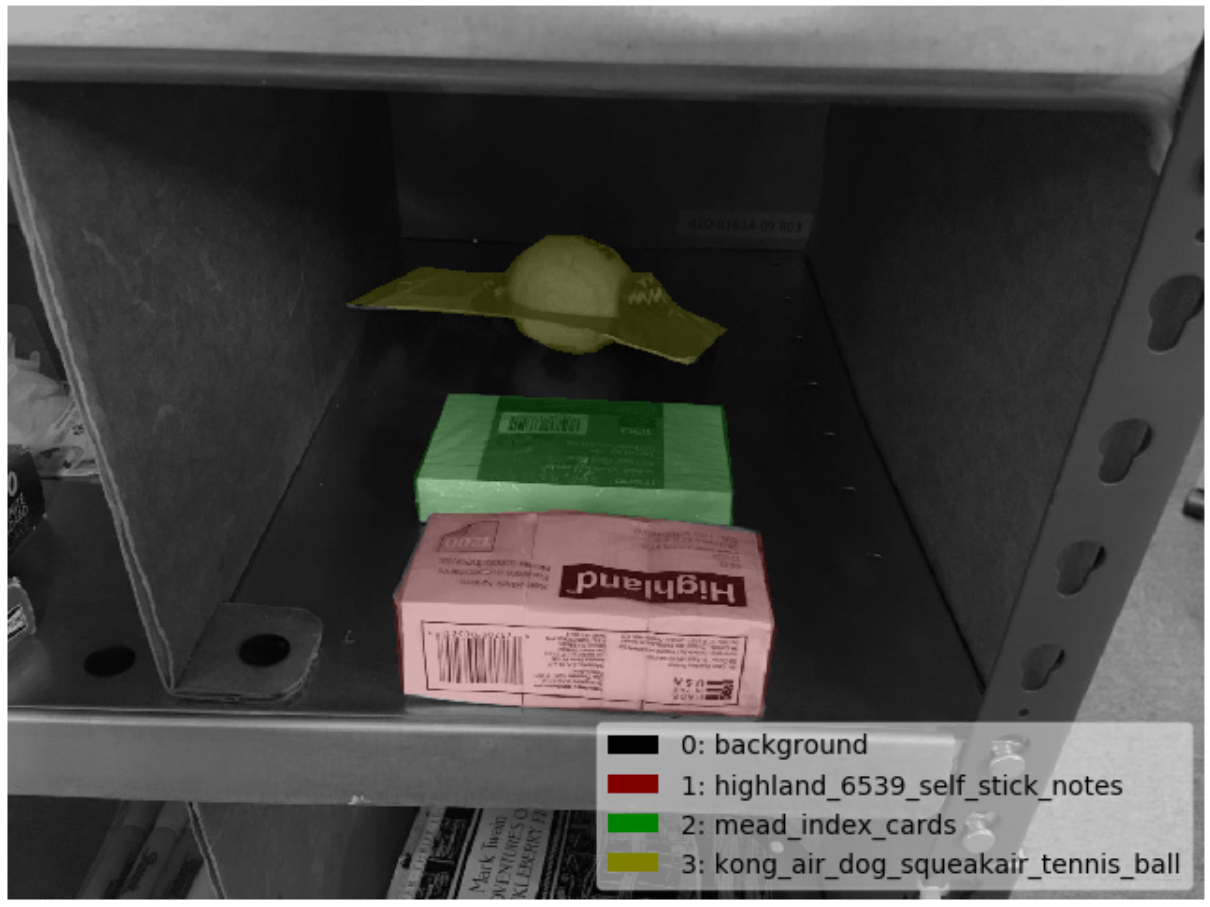
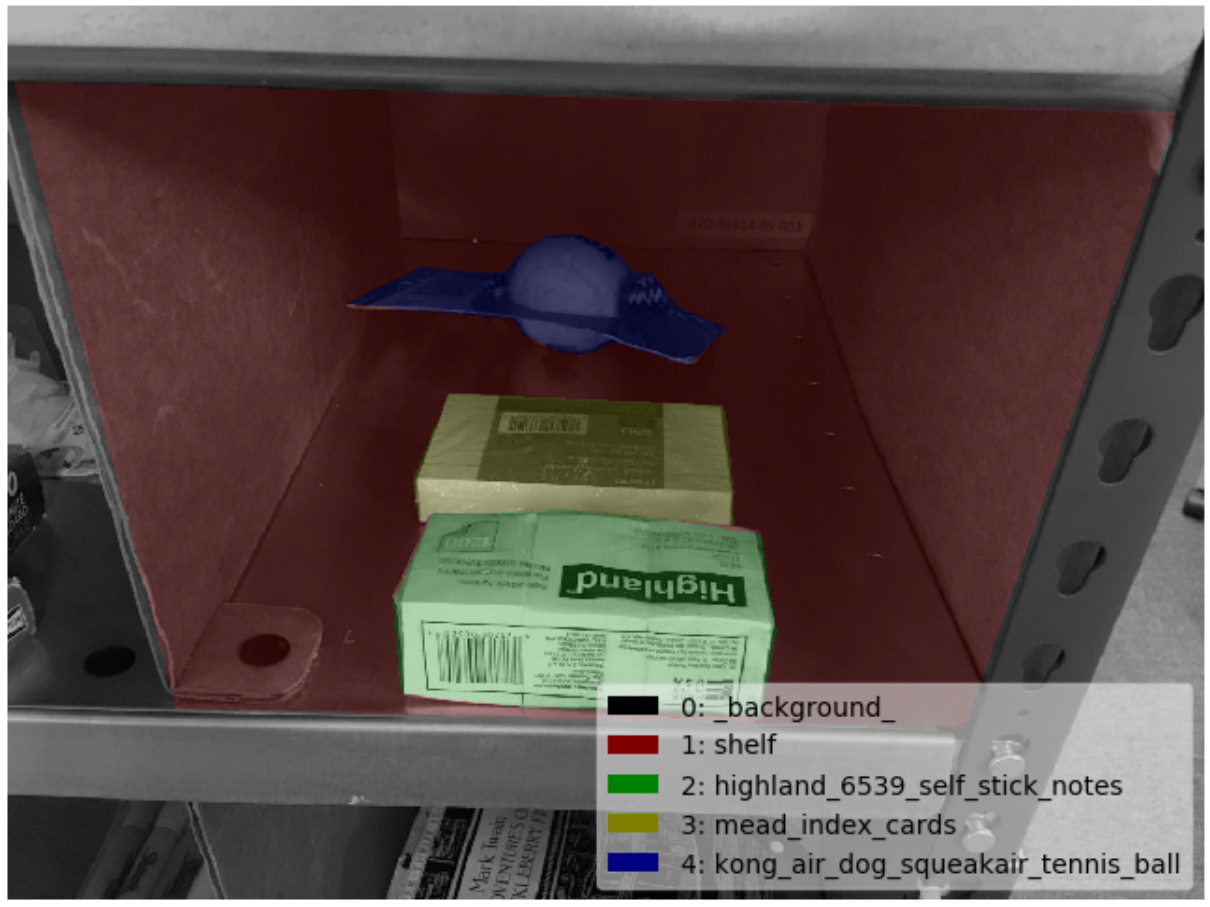
Fix utils.labelme_shapes_to_label
- Make 'background' label name have '0' label value

diff --git a/labelme/cli/json_to_dataset.py b/labelme/cli/json_to_dataset.py
@@ -32,10 +32,28 @@ def main():
 
     data = json.load(open(json_file))
 
-    img = utils.img_b64_to_array(data['imageData'])
-    lbl, lbl_names = utils.labelme_shapes_to_label(img.shape, data['shapes'])
+    img = utils.img_b64_to_arr(data['imageData'])
 
-    captions = ['%d: %s' % (l, name) for l, name in enumerate(lbl_names)]
+    label_name_to_value = {'_background_': 0}
+    for shape in data['shapes']:
+        label_name = shape['label']
+        if label_name in label_name_to_value:
+            label_value = label_name_to_value[label_name]
+        else:
+            label_value = len(label_name_to_value)
+            label_name_to_value[label_name] = label_value
+
+    # label_values must be dense
+    label_values, label_names = [], []
+    for ln, lv in sorted(label_name_to_value.items(), key=lambda x: x[1]):
+        label_values.append(lv)
+        label_names.append(ln)
+    assert label_values == list(range(len(label_values)))
+
+    lbl = utils.shapes_to_label(img.shape, data['shapes'], label_name_to_value)
+
+    captions = ['{}: {}'.format(lv, ln)
+                for ln, lv in label_name_to_value.items()]
     lbl_viz = utils.draw_label(lbl, img, captions)
 
     PIL.Image.fromarray(img).save(osp.join(out_dir, 'img.png'))
@@ -43,11 +61,11 @@ def main():
     PIL.Image.fromarray(lbl_viz).save(osp.join(out_dir, 'label_viz.png'))
 
     with open(osp.join(out_dir, 'label_names.txt'), 'w') as f:
-        for lbl_name in lbl_names:
+        for lbl_name in label_names:
             f.write(lbl_name + '\n')
 
     warnings.warn('info.yaml is being replaced by label_names.txt')
-    info = dict(label_names=lbl_names)
+    info = dict(label_names=label_names)
     with open(osp.join(out_dir, 'info.yaml'), 'w') as f:
         yaml.safe_dump(info, f, default_flow_style=False)
 

diff --git a/labelme/cli/draw_json.py b/labelme/cli/draw_json.py
@@ -16,10 +16,22 @@ def main():
 
     data = json.load(open(json_file))
 
-    img = utils.img_b64_to_array(data['imageData'])
-    lbl, lbl_names = utils.labelme_shapes_to_label(img.shape, data['shapes'])
+    img = utils.img_b64_to_arr(data['imageData'])
 
-    captions = ['%d: %s' % (l, name) for l, name in enumerate(lbl_names)]
+    label_name_to_value = {'_background_': 0}
+    for shape in data['shapes']:
+        label_name = shape['label']
+        if label_name in label_name_to_value:
+            label_value = label_name_to_value[label_name]
+        else:
+            label_value = len(label_name_to_value)
+            label_name_to_value[label_name] = label_value
+
+    lbl = utils.shapes_to_label(
+        img.shape, data['shapes'], label_name_to_value)
+
+    captions = ['{}: {}'.format(lv, ln)
+                for ln, lv in label_name_to_value.items()]
     lbl_viz = utils.draw_label(lbl, img, captions)
 
     plt.subplot(121)

diff --git a/labelme/utils.py b/labelme/utils.py
@@ -136,7 +136,7 @@ def shapes_to_label(img_shape, shapes, label_name_to_value, type='class'):
     cls = np.zeros(img_shape[:2], dtype=np.int32)
     if type == 'instance':
         ins = np.zeros(img_shape[:2], dtype=np.int32)
-        instance_names = ['__background__']
+        instance_names = ['_background_']
     for shape in shapes:
         polygons = shape['points']
         label = shape['label']
@@ -162,7 +162,7 @@ def labelme_shapes_to_label(img_shape, shapes):
     warnings.warn('labelme_shapes_to_label is deprecated, so please use '
                   'shapes_to_label.')
 
-    label_name_to_value = {}
+    label_name_to_value = {'_background_': 0}
     for shape in shapes:
         label_name = shape['label']
         if label_name in label_name_to_value:
